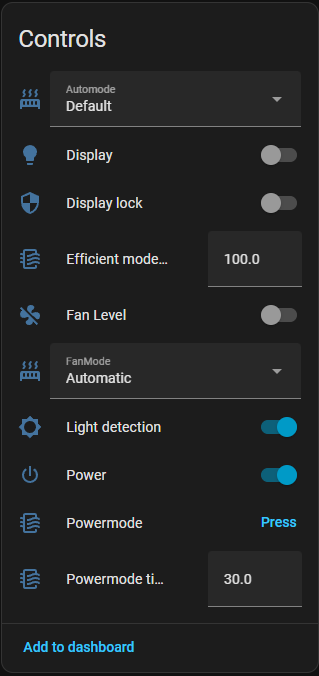
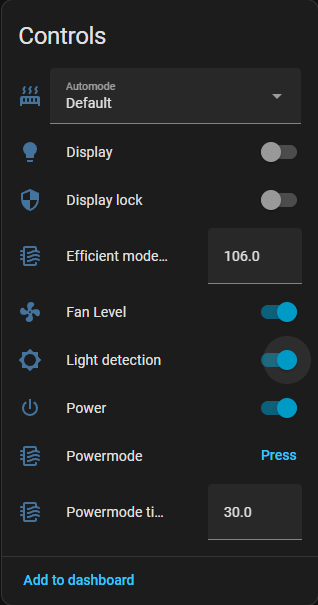
Added a Light detected sensor

diff --git a/components/levoitvital/levoit_vital.h b/components/levoitvital/levoit_vital.h
@@ -11,13 +11,14 @@ namespace esphome
 {
     namespace levoit_vital
     {
-        class LevoitSwitch;     // forward declaration to prevent errors when including switch
-        class LevoitSelect;     // forward declaration to prevent errors when including select
-        class LevoitSensor;     // forward declaration to prevent errors when including sensor
-        class LevoitTextSensor; // forward declaration to prevent errors when including textsensor
-        class LevoitNumber;     // forward declaration to prevent errors when including number
+        class LevoitSwitch;       // forward declaration to prevent errors when including switch
+        class LevoitSelect;       // forward declaration to prevent errors when including select
+        class LevoitSensor;       // forward declaration to prevent errors when including sensor
+        class LevoitBinarySensor; // forward declaration to prevent errors when including binary_sensor
+        class LevoitTextSensor;   // forward declaration to prevent errors when including textsensor
+        class LevoitNumber;       // forward declaration to prevent errors when including number
         class LevoitButton;
-        class LevoitFan;        // forward declaration to prevent errors when including fan  
+        class LevoitFan;          // forward declaration to prevent errors when including fan  
 
         enum ModelType
         {
@@ -40,6 +41,7 @@ namespace esphome
             void set_switch(LevoitSwitch *sw, LevoitSwitchPurpose purpose);
             void set_select(LevoitSelect *select, LevoitSelectPurpose purpose);
             void set_sensor(LevoitSensor *sensor, LevoitSensorPurpose purpose);
+            void set_binary_sensor(LevoitBinarySensor *sensor, LevoitBinarySensorPurpose purpose);
             void set_text_sensor(LevoitTextSensor *sensor, LevoitTextSensorPurpose purpose);
             void set_number(LevoitNumber *number, LevoitNumberPurpose purpose);
             void set_button(LevoitButton *button, LevoitButtonPurpose purpose);
@@ -62,6 +64,9 @@ namespace esphome
             LevoitSensor *particle_density;
             LevoitSensor *airquality_score;
             LevoitSensor *air_quality_index;
+
+            // binary sensors
+            LevoitBinarySensor *light_detected;
 
             // textsensors
             LevoitTextSensor *airquality_level;

diff --git a/components/levoitvital/levoit_vital.cpp b/components/levoitvital/levoit_vital.cpp
@@ -7,6 +7,7 @@
 #include "switch/levoit_vital_switch.h"
 #include "select/levoit_vital_select.h"
 #include "sensor/levoit_vital_sensor.h"
+#include "binary_sensor/levoit_vital_binary_sensor.h"
 #include "number/levoit_vital_number.h"
 #include "button/levoit_vital_button.h"
 #include "text_sensor/levoit_vital_text_sensor.h"
@@ -94,6 +95,18 @@ namespace esphome
             case AIR_QUALITY_INDEX:
             {
                 this->air_quality_index = sensor;
+                break;
+            }
+            }
+        }
+
+        void LevoitVital::set_binary_sensor(LevoitBinarySensor *sensor, LevoitBinarySensorPurpose purpose)
+        {
+            switch (purpose)
+            {
+            case LIGHT_DETECTED:
+            {
+                this->light_detected = sensor;
                 break;
             }
             }
@@ -300,6 +313,12 @@ namespace esphome
                     if (this->light_detect_switch && checkValChanged(settings.lightDetection, "lightDetection", msg[68]))
                     {
                         this->light_detect_switch->publish_state(settings.lightDetection);
+                    }
+
+                    if (this->light_detected && checkValChanged(settings.lightDetected, "lightDetected", msg[74]))
+                    {
+                        // 0=light detected, 1=no light, so invert for boolean sensor
+                        this->light_detected->publish_state(settings.lightDetected == 0 ? 1 : 0);
                     }
 
                     // Update fan preset mode based on device status

diff --git a/components/levoitvital/binary_sensor/__init__.py b/components/levoitvital/binary_sensor/__init__.py
@@ -1,0 +1,34 @@
+import esphome.codegen as cg
+import esphome.config_validation as cv
+from esphome.components import binary_sensor
+from esphome.const import DEVICE_CLASS_LIGHT
+from .. import LevoitVital, CONF_LEVOIT_ID, levoit_vital_ns
+
+DEPENDENCIES = ["levoitvital"]
+
+
+CONF_LIGHT_DETECTED = "light_detected"
+
+LevoitBinarySensor = levoit_vital_ns.class_("LevoitBinarySensor", binary_sensor.BinarySensor, cg.Component)
+LevoitBinarySensorPurpose = levoit_vital_ns.enum("LevoitBinarySensorPurpose")
+
+
+CONFIG_SCHEMA = cv.Schema(
+    {
+        cv.GenerateID(CONF_LEVOIT_ID): cv.use_id(LevoitVital),
+        cv.Optional(CONF_LIGHT_DETECTED): binary_sensor.binary_sensor_schema(
+            LevoitBinarySensor, device_class=DEVICE_CLASS_LIGHT
+        ).extend(cv.COMPONENT_SCHEMA),
+    }
+)
+
+
+async def to_code(config):
+    parent = await cg.get_variable(config[CONF_LEVOIT_ID])
+
+    if config_light_detected := config.get(CONF_LIGHT_DETECTED):
+        var = await binary_sensor.new_binary_sensor(
+            config_light_detected, parent, LevoitBinarySensorPurpose.LIGHT_DETECTED
+        )
+        cg.add(parent.set_binary_sensor(var, LevoitBinarySensorPurpose.LIGHT_DETECTED))
+        await cg.register_component(var, config_light_detected)

diff --git a/components/levoitvital/binary_sensor/levoit_vital_binary_sensor.h b/components/levoitvital/binary_sensor/levoit_vital_binary_sensor.h
@@ -1,0 +1,27 @@
+#pragma once
+
+#include "esphome/core/component.h"
+#include "esphome/components/binary_sensor/binary_sensor.h"
+#include "../levoit_vital.h"
+
+namespace esphome
+{
+    namespace levoit_vital
+    {
+
+        class LevoitBinarySensor : public binary_sensor::BinarySensor, public Component
+        {
+        public:
+            LevoitBinarySensor() = default;
+            LevoitBinarySensor(LevoitVital *parent, LevoitBinarySensorPurpose purpose) : parent_(parent), purpose_(purpose) {}
+            void set_parent(LevoitVital *parent) { this->parent_ = parent; }
+            void set_purpose(LevoitBinarySensorPurpose purpose) { this->purpose_ = purpose; }
+            void dump_config() override;
+
+        protected:
+            LevoitVital *parent_;
+            LevoitBinarySensorPurpose purpose_;
+        };
+
+    } // namespace levoit_vital
+} // namespace esphome

diff --git a/components/levoitvital/settings.h b/components/levoitvital/settings.h
@@ -29,6 +29,7 @@ public:
     std::uint16_t airQualityIndex;   // 0-500 AQI
     std::uint8_t displayLock;        // 0=off, 1=on
     std::uint8_t lightDetection;     // 0=off, 1=on
+    std::uint8_t lightDetected;      // 0=light detected, 1=no light
     std::uint8_t sleepMode;          // 0=default, 1=custom
     std::uint8_t airfilter_state;    // 0 = clean, 1 = must be replaced
     std::uint16_t powerModeValue;    // time in minutes for the poewer mode (this is a cusom functionality from me, and not part of levoit)

diff --git a/components/levoitvital/binary_sensor/levoit_vital_binary_sensor.cpp b/components/levoitvital/binary_sensor/levoit_vital_binary_sensor.cpp
@@ -1,0 +1,17 @@
+#include "levoit_vital_binary_sensor.h"
+#include "esphome/core/log.h"
+
+namespace esphome
+{
+    namespace levoit_vital
+    {
+
+        static const char *const TAG = "levoit_vital.binary_sensor";
+
+        void LevoitBinarySensor::dump_config()
+        {
+            LOG_BINARY_SENSOR("", "Levoit Vital Binary Sensor", this);
+        }
+
+    } // namespace levoit_vital
+} // namespace esphome

diff --git a/components/levoitvital/enums.h b/components/levoitvital/enums.h
@@ -25,6 +25,11 @@ namespace esphome
             AIR_QUALITY_INDEX
         };
 
+        enum LevoitBinarySensorPurpose : uint8_t
+        {
+            LIGHT_DETECTED
+        };
+
         enum LevoitTextSensorPurpose : uint8_t
         {
             AIRQUALITY_LEVEL,

diff --git a/PROTOCOL.md b/PROTOCOL.md
@@ -142,7 +142,7 @@ The TLV payload starts at byte 10. Each entry consists of [Tag][Length][Value by
 | 0x12 | 63 | 1 | 65 | **Device Power** | 0=OFF, 1=ON |
 | 0x13 | 66 | 1 | 68 | **Light Detection** | 0=OFF, 1=ON |
 | 0x16 | 69 | 1 | 71 | Unknown 16 | Unknown purpose |
-| 0x17 | 72 | 1 | 74 | Unknown 17 | Unknown purpose |
+| 0x17 | 72 | 1 | 74 | **Light Detected** | 0=Light detected, 1=No light |
 | 0x18 | 75 | 1 | 77 | **Sleep Mode** | 0=OFF, 1=ON |
 | 0x19 | 78 | 1 | 80 | Unknown 19 | Unknown purpose |
 | 0x1A | 81 | 2 | 83-84 | **Fan Level** | 0=min, 1-4=levels, 5=auto (16-bit LE) |
@@ -376,6 +376,14 @@ Decoded values from this message:
 |-------|-------|
 | 0x00 | Filter OK |
 | 0x01 | Replace Filter |
+
+### Light Detected (Tag 0x17, Byte 74)
+| Value | State |
+|-------|-------|
+| 0x00 | Light detected (room is bright) |
+| 0x01 | No light detected (room is dark) |
+
+**Example:** `... 17 01 ►00◄ 18 ...` = Light detected (Tag 0x17, Length 1, Value 0x00)
 
 ## Checksum Calculation
 

diff --git a/README.md b/README.md
@@ -15,6 +15,7 @@ As there was no component or firmware or anything for the Levoit Vital 200S i re
   - **Automatic**: AI-driven fan speed based on air quality
   - **Pet**: Optimized for pet environments
 - **Sensors**: PM2.5 particle density, air quality score/index, filter status
+  - **Light detected**: Binary sensor that reports ambient light detection (only works when the "Light detection" switch is enabled)
 - **Controls**: Device power, display settings, light detection
 - **Automation Modes**: Auto mode with Default/Quiet/Efficient presets
 
